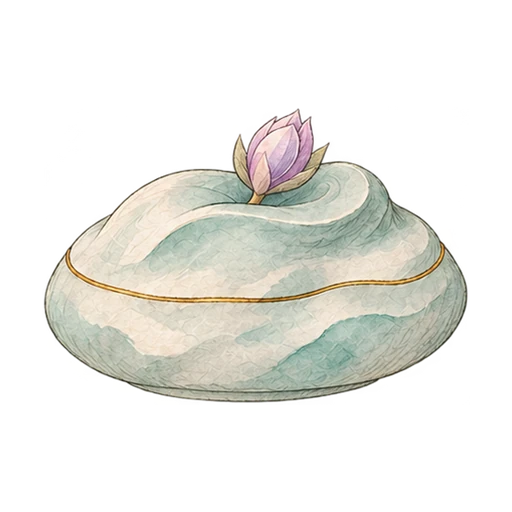
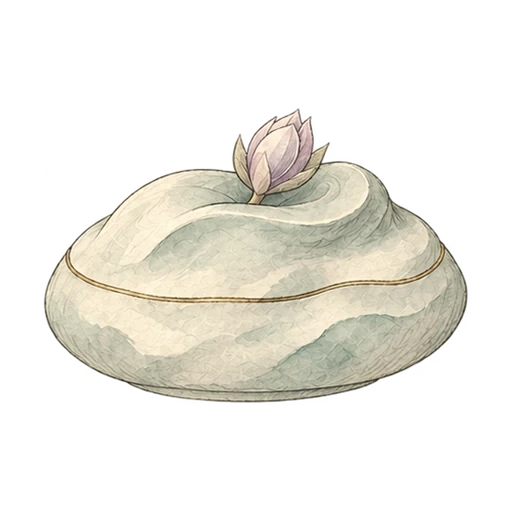
香薰仪改暖黄奶油调、去掉素材阴影；花瓣改为绕底部支点外翻（不再整体放大）
- 香炉：按亮度重建暖奶油色（R×1.045+12 / B×0.905+2），花瓣保留粉色只轻微暖化
- 素材内阴影全部清除（贴体掩膜 + 炉底硬切），阴影交给 CSS，日夜统一
- 花瓣张开：改为左右花瓣各自绕底部支点旋转 ±7°，大小不变
- 左下角「香氛仪」卡片插画同步调暖
- 白天不再出现蓝色，夜间底部不再有黄色残影

diff --git a/css/vintage.css b/css/vintage.css
@@ -1914,3 +1914,16 @@ html[data-skin="vintage"] body.is-igniting:not(.is-lit) .censer-art.censer-bloom
 html[data-skin="vintage"] body:not(.is-lit):not(.is-igniting) .censer-art.censer-bloom {
   transition: opacity 1.1s ease .15s;
 }
+
+
+/* 香炉底影：日夜都用中性暖灰，素材里已无阴影 */
+html[data-skin="vintage"] .censer-ground-shadow {
+  top: 86%;
+  width: 52%;
+  height: 5.5%;
+  filter: blur(9px);
+  background: radial-gradient(ellipse at center, rgba(96, 84, 66, .28) 0%, rgba(96, 84, 66, 0) 72%);
+}
+html[data-skin="vintage"][data-theme="night"] .censer-ground-shadow {
+  background: radial-gradient(ellipse at center, rgba(16, 24, 34, .40) 0%, rgba(16, 24, 34, 0) 72%);
+}
